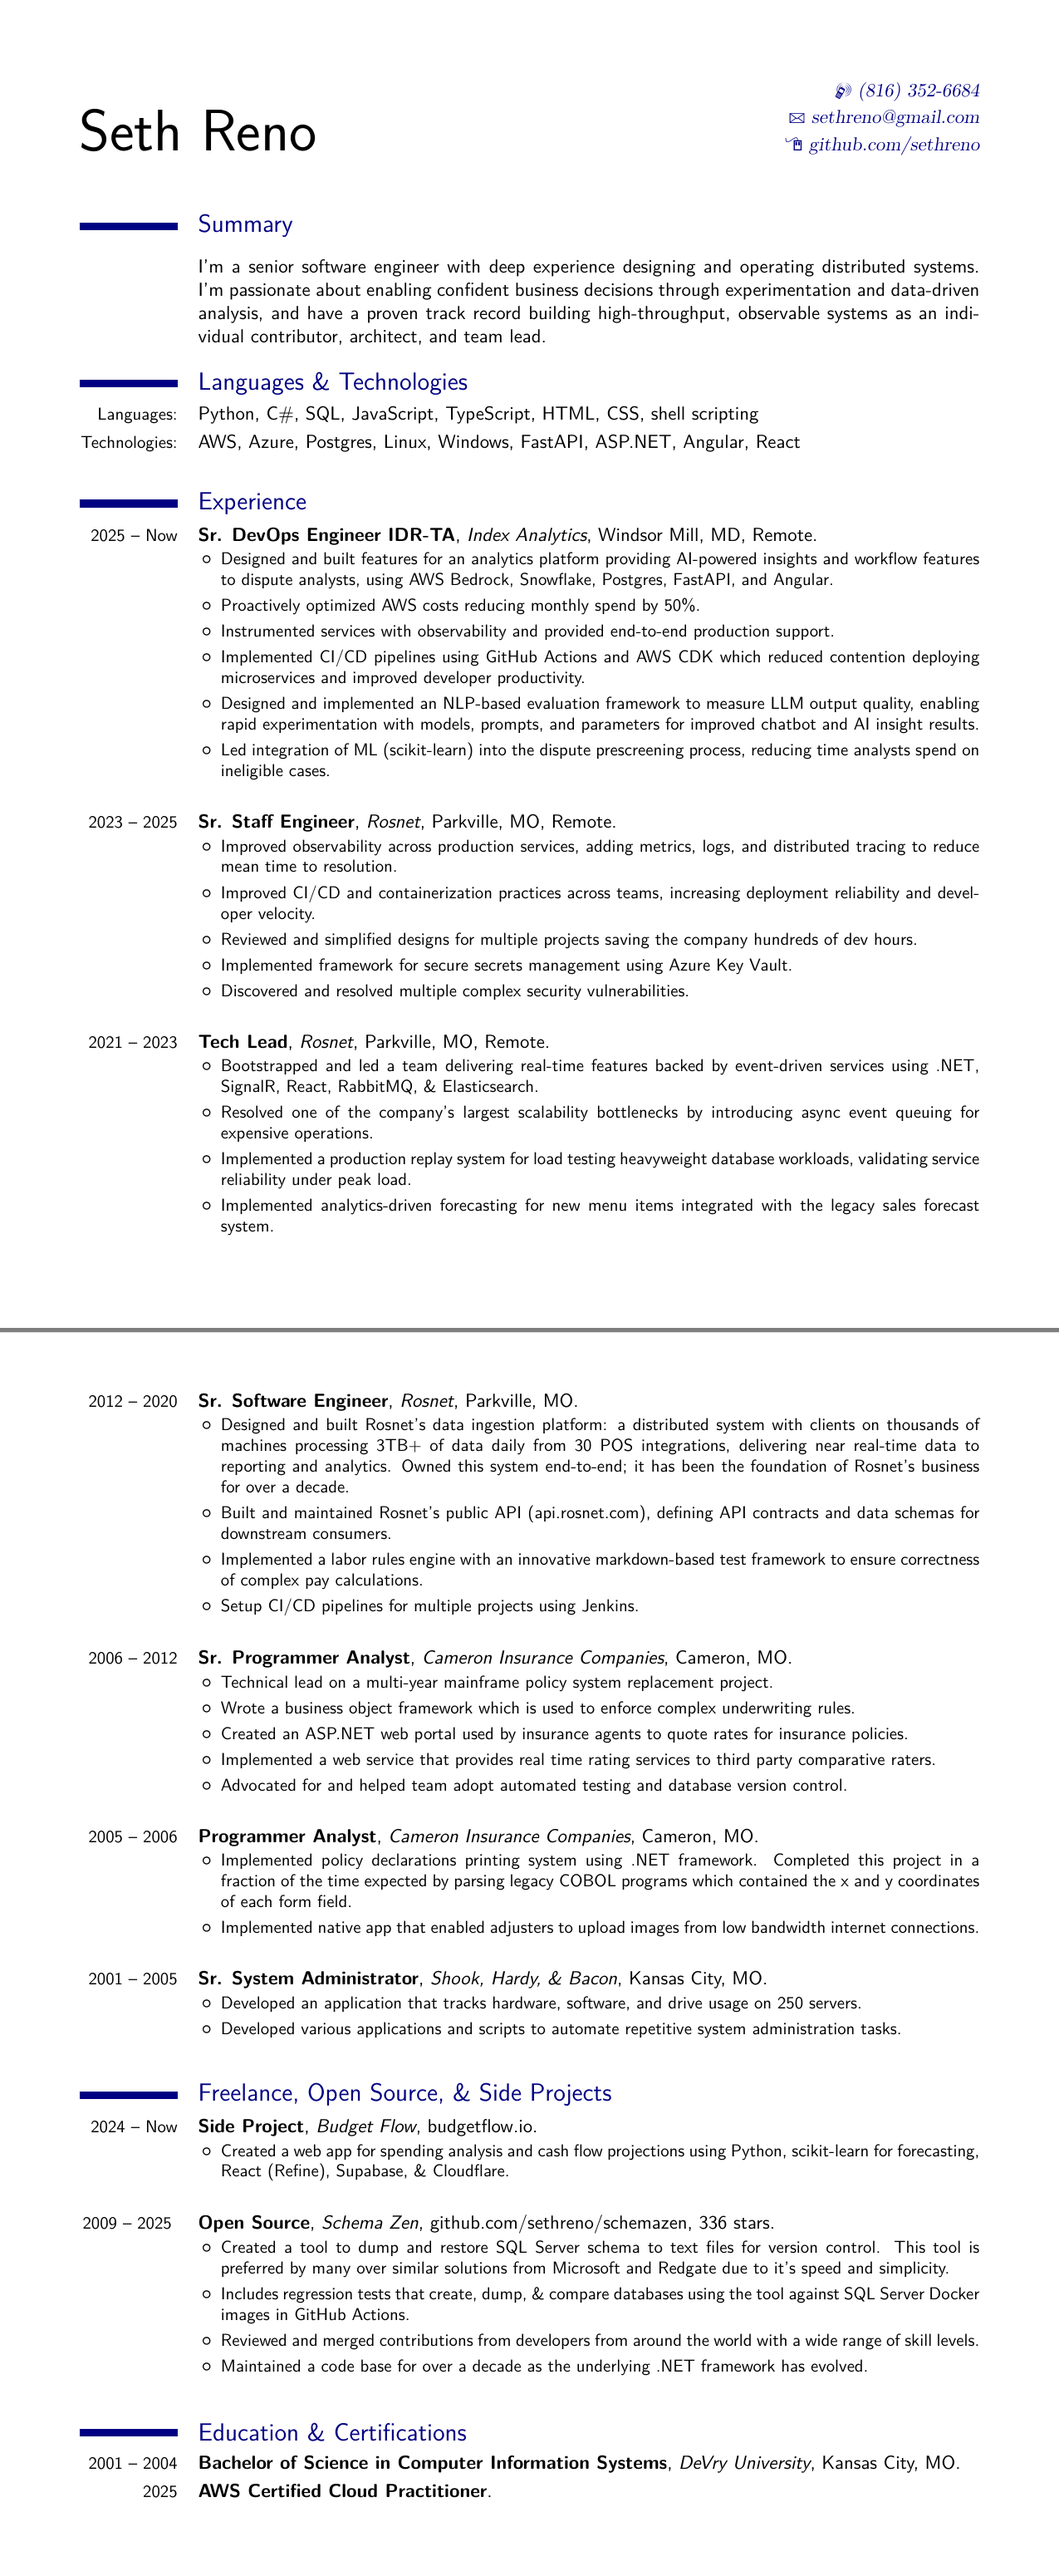
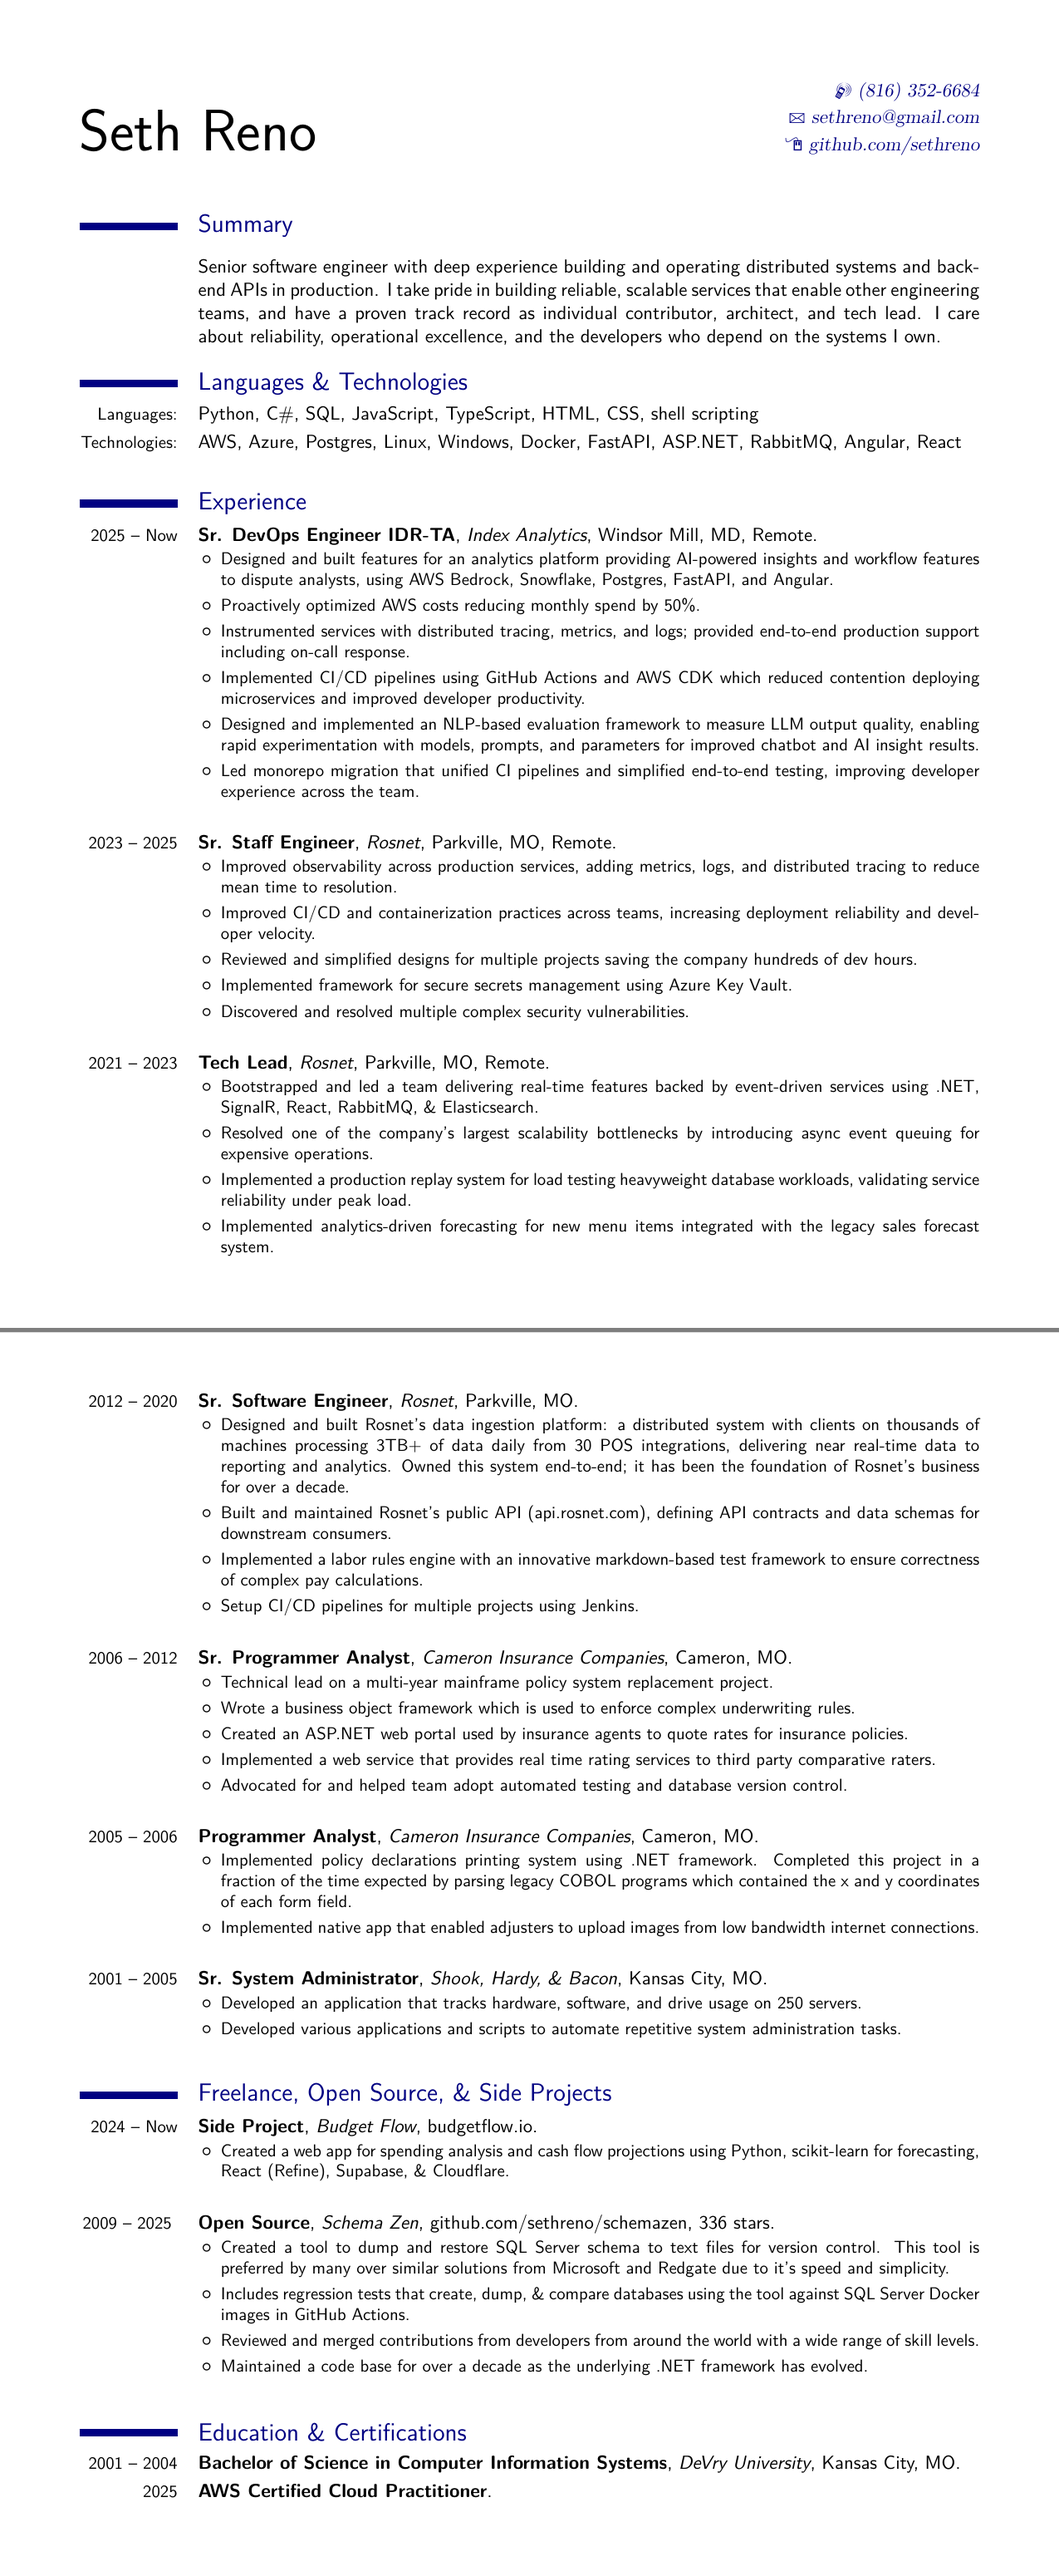
tweak resume for github copilot job

diff --git a/src/resume.tex b/src/resume.tex
@@ -49,18 +49,19 @@
 \maketitle
 \section{Summary}
 \cvline{}{
-I'm a senior software engineer with deep experience designing and operating
-distributed systems. I'm passionate about enabling confident business decisions
-through experimentation and data-driven analysis, and have a proven track
-record building high-throughput, observable systems as an individual
-contributor, architect, and team lead.
+Senior software engineer with deep experience building and operating
+distributed systems and backend APIs in production. I take pride in building
+reliable, scalable services that enable other engineering teams, and have a
+proven track record as individual contributor, architect, and tech lead.
+I care about reliability, operational excellence, and the developers
+who depend on the systems I own.
 }
 
 \section{Languages \& Technologies}
 	\cvline {Languages:}
 		{Python, C\#, SQL, JavaScript, TypeScript, HTML, CSS, shell scripting}
 	\cvline {Technologies:}
-		{AWS, Azure, Postgres, Linux, Windows, FastAPI, ASP.NET, Angular, React}
+		{AWS, Azure, Postgres, Linux, Windows, Docker, FastAPI, ASP.NET, RabbitMQ, Angular, React}
 
 \section{Experience} 
 	\cventry
@@ -73,8 +74,8 @@ contributor, architect, and team lead.
 			\item
 				Proactively optimized AWS costs reducing monthly spend by 50\%.
 			\item
-				Instrumented services with observability and provided
-				end-to-end production support.
+				Instrumented services with distributed tracing, metrics, and logs;
+				provided end-to-end production support including on-call response.
 			\item
 				Implemented CI/CD pipelines using GitHub Actions and AWS CDK
 				which reduced contention deploying microservices and improved
@@ -85,8 +86,8 @@ contributor, architect, and team lead.
 				prompts, and parameters for improved chatbot and AI insight
 				results.
 			\item
-				Led integration of ML (scikit-learn) into the dispute prescreening
-				process, reducing time analysts spend on ineligible cases.
+				Led monorepo migration that unified CI pipelines and simplified
+				end-to-end testing, improving developer experience across the team.
 		\end{itemize}
 }
 \linebreak
@@ -130,7 +131,6 @@ contributor, architect, and team lead.
 				with the legacy sales forecast system.
 		\end{itemize}
 }
-\linebreak
 
 	\cventry
 {2012 -- 2020} {Sr. Software Engineer}{Rosnet}{Parkville, MO}{}{
